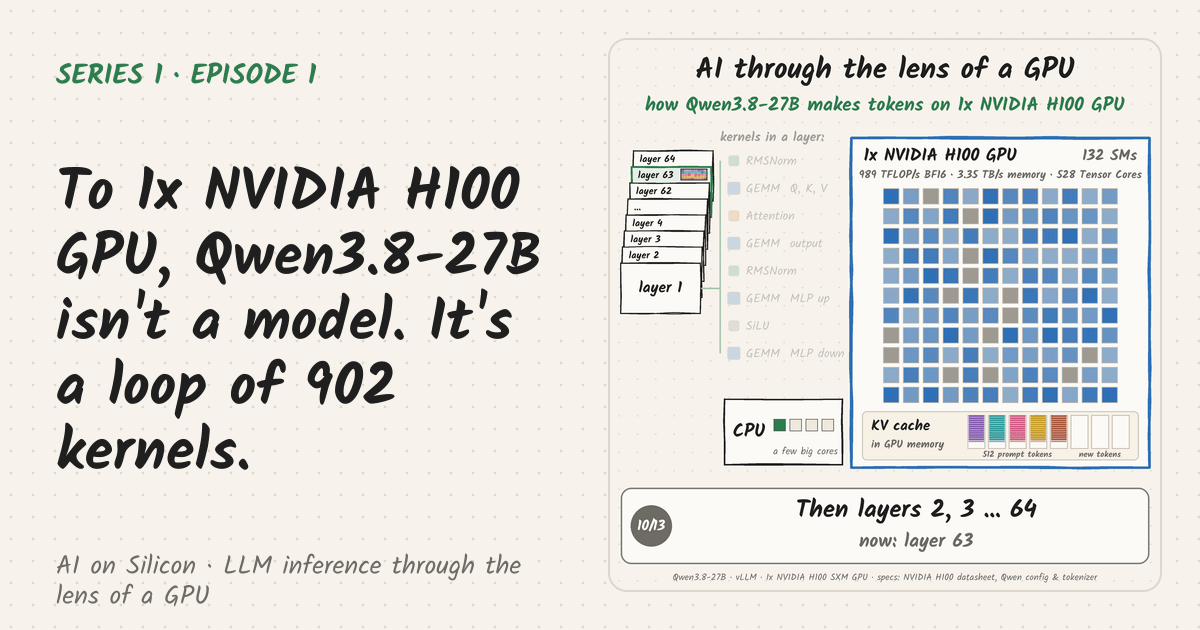
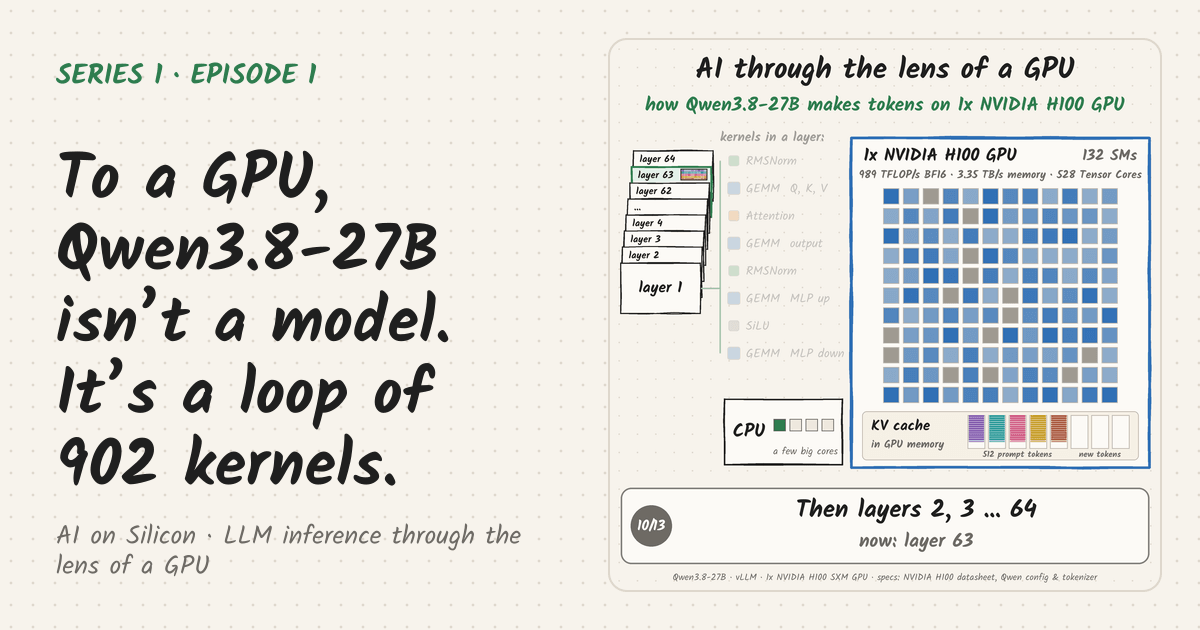
Rename episode 1, rewrite About, remove the newsletter

Changed region(s): [[0.0308, 0.2413, 0.4625, 0.5429], [0.0308, 0.573, 0.37, 0.7841], [0.0308, 0.8444, 0.4317, 0.9651]]

diff --git a/src/site.config.ts b/src/site.config.ts
@@ -22,9 +22,6 @@ export const SITE = {
   // Move it to Cloudflare R2 later by uploading public/media/ and setting PUBLIC_MEDIA_BASE at build time.
   mediaBase: import.meta.env.PUBLIC_MEDIA_BASE || '',
 
-  // Buttondown username; '' hides the signup form and shows RSS + LinkedIn instead.
-  newsletter: { buttondownUser: '' },
-
   // Giscus (GitHub Discussions comments): fill all four from https://giscus.app; '' hides comments.
   giscus: { repo: '', repoId: '', category: '', categoryId: '' },
 

diff --git a/README.md b/README.md
@@ -50,7 +50,7 @@ src/components/                       PostHero (Animation / Step by step tabs), 
 src/data/series.json                  each series: number, title, blurb, its notebook repo
 src/lib/notebook.ts                   renders a .ipynb to static HTML for the Reproduce section
 src/data/glossary.ts                  /glossary terms
-src/site.config.ts                    name, links, newsletter, comments, analytics: fill these in
+src/site.config.ts                    name, links, comments, analytics: fill these in
 scripts/import-post.mjs               ~/Posts/post-NN → site post
 scripts/og-default.mjs                site-wide social card
 ```
@@ -60,7 +60,6 @@ scripts/og-default.mjs                site-wide social card
 | Setting | What it turns on |
 |---|---|
 | `links.cv`, `links.email` | CV / email buttons on /about (LinkedIn is already set) |
-| `newsletter.buttondownUser` | Email signup form (free Buttondown account); otherwise RSS + LinkedIn buttons |
 | `giscus.*` | Comments under each post, stored in GitHub Discussions (values from https://giscus.app) |
 | `goatcounter` | Privacy-friendly page-view counts (free GoatCounter account) |
 
